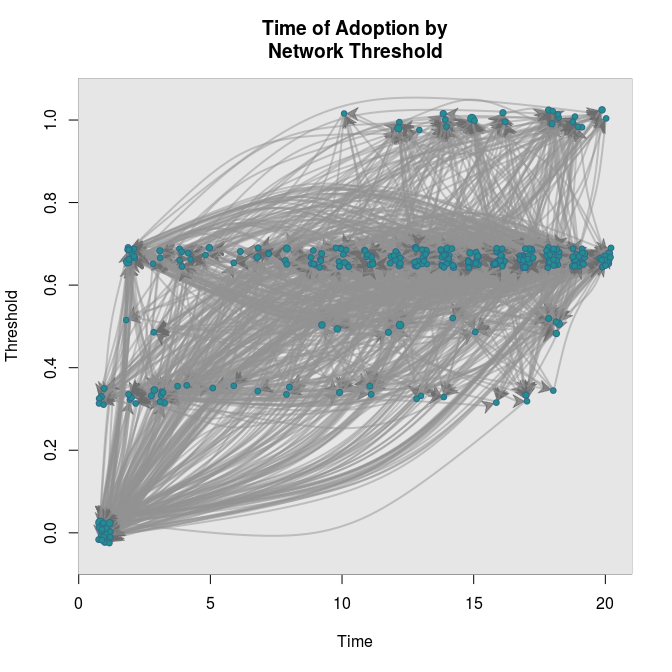
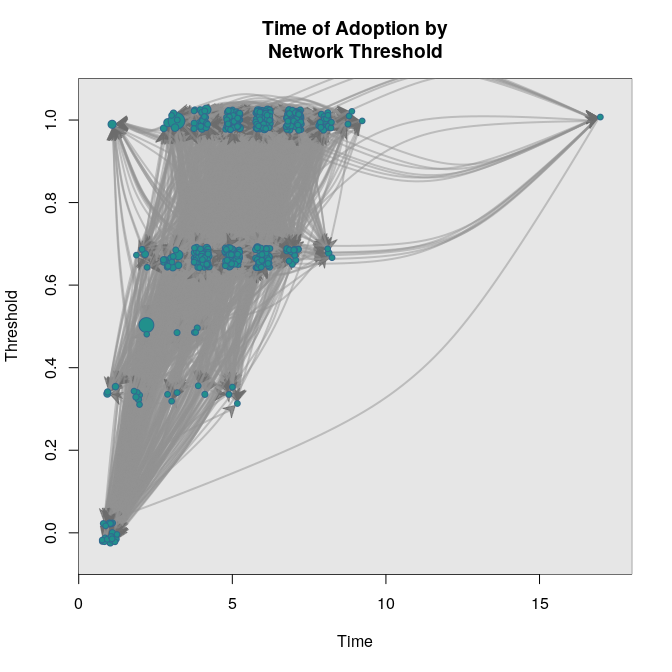
Updating README

diff --git a/README.md b/README.md
@@ -1,5 +1,3 @@
-netdiffuseR: Analysis of Diffusion and Contagion Processes on Networks
-================
 
 [![Build
 Status](https://travis-ci.org/USCCANA/netdiffuseR.svg?branch=master)](https://travis-ci.org/USCCANA/netdiffuseR)
@@ -11,6 +9,15 @@ status](https://ci.appveyor.com/api/projects/status/6u48wgl1lqak2jum?svg=true)](
 [![](http://cranlogs.r-pkg.org/badges/grand-total/netdiffuseR)](http://cran.rstudio.com/web/packages/netdiffuseR/index.html)
 [![DOI](https://zenodo.org/badge/DOI/10.5281/zenodo.1039317.svg)](https://doi.org/10.5281/zenodo.1039317)
 [![Dependencies](https://tinyverse.netlify.com/badge/netdiffuseR)](https://cran.r-project.org/package=netdiffuseR)
+[![USC’s Department of Preventive
+Medicine](https://raw.githubusercontent.com/USCbiostats/badges/master/tommy-uscprevmed-badge.svg)](https://preventivemedicine.usc.edu)
+
+<h1>
+
+netdiffuseR: Analysis of Diffusion and Contagion Processes on
+Networks<img src="man/figures/netdiffuser-logo.svg" style="max-width:200px;width:50%;" align="right">
+
+</h1>
 
 This package contains functions useful for analyzing network data for
 diffusion of innovations applications.
@@ -100,8 +107,7 @@ the package [here](https://github.com/USCCANA/netdiffuseR/releases),
 netdiffuseR\_1…zip, and netdiffuseR\_1…tgz respectively. They can
 install this directly as follows (using the 1.16.3.29 version):
 
-1.  Install dependencies from
-    CRAN
+1.  Install dependencies from CRAN
     
     ``` r
     > install.packages(c("igraph", "Matrix", "SparseM", "RcppArmadillo", "sna"), dependencies=TRUE)
@@ -165,7 +171,7 @@ toa <- sample(c(1:(1+nper-1), NA), n, TRUE)
 head(toa)
 ```
 
-    ## [1] 20  7  9  1 17 14
+    ## [1] 16  3 14  3 13  5
 
 ``` r
 # Creating a diffnet object
@@ -193,28 +199,28 @@ summary(diffnet)
     ## -----------------------------------------------------------------------------
     ##  Period   Adopters   Cum Adopt. (%)   Hazard Rate   Density   Moran's I (sd)  
     ## -------- ---------- ---------------- ------------- --------- ---------------- 
-    ##        1          3         3 (0.03)             -      0.50 -0.01 (0.00)     
-    ##        2          8        11 (0.11)          0.08      0.50 -0.01 (0.00)     
-    ##        3          4        15 (0.15)          0.04      0.51 -0.00 (0.00) *   
-    ##        4          1        16 (0.16)          0.01      0.49 -0.01 (0.00)     
-    ##        5          2        18 (0.18)          0.02      0.50 -0.01 (0.00)     
-    ##        6          5        23 (0.23)          0.06      0.50 -0.01 (0.00)     
-    ##        7          6        29 (0.29)          0.08      0.51 -0.01 (0.00)     
-    ##        8          1        30 (0.30)          0.01      0.50 -0.01 (0.00)     
-    ##        9          6        36 (0.36)          0.09      0.50 -0.01 (0.00)     
-    ##       10          5        41 (0.41)          0.08      0.49 -0.01 (0.00)     
-    ##       11          2        43 (0.43)          0.03      0.50 -0.02 (0.00) **  
-    ##       12          6        49 (0.49)          0.11      0.50 -0.01 (0.00)     
-    ##       13          4        53 (0.53)          0.08      0.50 -0.01 (0.00)     
-    ##       14          7        60 (0.60)          0.15      0.50 -0.01 (0.00)     
-    ##       15          7        67 (0.67)          0.17      0.50 -0.01 (0.00)     
-    ##       16          3        70 (0.70)          0.09      0.50 -0.01 (0.00)     
-    ##       17         10        80 (0.80)          0.33      0.49 -0.01 (0.00)     
-    ##       18          4        84 (0.84)          0.20      0.50 -0.01 (0.00)     
-    ##       19          2        86 (0.86)          0.12      0.50 -0.01 (0.00)     
-    ##       20          9        95 (0.95)          0.64      0.50 -0.01 (0.00)     
+    ##        1          8         8 (0.08)             -      0.50 -0.01 (0.00)     
+    ##        2          3        11 (0.11)          0.03      0.50 -0.01 (0.00)     
+    ##        3          6        17 (0.17)          0.07      0.51 -0.01 (0.00)     
+    ##        4          3        20 (0.20)          0.04      0.49 -0.01 (0.00)     
+    ##        5          9        29 (0.29)          0.11      0.50 -0.01 (0.00)     
+    ##        6          5        34 (0.34)          0.07      0.50 -0.01 (0.00)     
+    ##        7          2        36 (0.36)          0.03      0.51 -0.01 (0.00)     
+    ##        8          3        39 (0.39)          0.05      0.50 -0.01 (0.00)     
+    ##        9          5        44 (0.44)          0.08      0.50 -0.01 (0.00)     
+    ##       10          1        45 (0.45)          0.02      0.49 -0.01 (0.00)     
+    ##       11          3        48 (0.48)          0.05      0.50 -0.01 (0.00)     
+    ##       12          6        54 (0.54)          0.12      0.50 -0.01 (0.00)     
+    ##       13          8        62 (0.62)          0.17      0.50 -0.01 (0.00)     
+    ##       14          9        71 (0.71)          0.24      0.50 -0.01 (0.00)     
+    ##       15          5        76 (0.76)          0.17      0.50 -0.00 (0.00) **  
+    ##       16          7        83 (0.83)          0.29      0.50 -0.01 (0.00)     
+    ##       17          5        88 (0.88)          0.29      0.49 -0.00 (0.00) *** 
+    ##       18          4        92 (0.92)          0.33      0.50 -0.01 (0.00)     
+    ##       19          1        93 (0.93)          0.12      0.50 -0.01 (0.00)     
+    ##       20          2        95 (0.95)          0.29      0.50 -0.01 (0.00)     
     ## -----------------------------------------------------------------------------
-    ##  Left censoring  : 0.03 (3)
+    ##  Left censoring  : 0.08 (8)
     ##  Right centoring : 0.05 (5)
     ##  # of nodes      : 100
     ## 
@@ -233,8 +239,8 @@ out <- plot_infectsuscep(diffnet, bins = 20,K=5, logscale = TRUE,
                          exclude.zeros = TRUE, h=1)
 ```
 
-    ## Warning in plot_infectsuscep.list(graph$graph, graph$toa, t0, normalize, :
-    ## When applying logscale some observations are missing.
+    ## Warning in plot_infectsuscep.list(graph$graph, graph$toa, t0, normalize, : When
+    ## applying logscale some observations are missing.
 
 ![](README_files/figure-gfm/plot_infectsuscept-2.png)<!-- -->
 
@@ -256,7 +262,7 @@ diffnet
     ##  # of nodes         : 500 (1, 2, 3, 4, 5, 6, 7, 8, ...)
     ##  # of time periods  : 20 (1 - 20)
     ##  Type               : directed
-    ##  Final prevalence   : 0.60
+    ##  Final prevalence   : 1.00
     ##  Static attributes  : real_threshold (1)
     ##  Dynamic attributes : -
 
@@ -390,13 +396,13 @@ par(oldpar)
 sessionInfo()
 ```
 
-    ## R version 3.5.3 (2019-03-11)
+    ## R version 4.0.5 (2021-03-31)
     ## Platform: x86_64-pc-linux-gnu (64-bit)
-    ## Running under: Ubuntu 16.04.6 LTS
+    ## Running under: Ubuntu 18.04.5 LTS
     ## 
     ## Matrix products: default
-    ## BLAS: /usr/lib/libblas/libblas.so.3.6.0
-    ## LAPACK: /usr/lib/lapack/liblapack.so.3.6.0
+    ## BLAS:   /usr/lib/x86_64-linux-gnu/atlas/libblas.so.3.10.3
+    ## LAPACK: /usr/lib/x86_64-linux-gnu/atlas/liblapack.so.3.10.3
     ## 
     ## locale:
     ##  [1] LC_CTYPE=en_US.UTF-8       LC_NUMERIC=C              
@@ -410,19 +416,22 @@ sessionInfo()
     ## [1] stats     graphics  grDevices utils     datasets  methods   base     
     ## 
     ## other attached packages:
-    ## [1] netdiffuseR_1.20.0
+    ## [1] netdiffuseR_1.22.0
     ## 
     ## loaded via a namespace (and not attached):
-    ##  [1] igraph_1.2.2         Rcpp_1.0.0           knitr_1.21          
-    ##  [4] magrittr_1.5         network_1.13.0.1     networkDynamic_0.9.0
-    ##  [7] MASS_7.3-51.1        viridisLite_0.3.0    lattice_0.20-38     
-    ## [10] stringr_1.3.1        tools_3.5.3          MatchIt_3.0.2       
-    ## [13] grid_3.5.3           xfun_0.4             sna_2.4             
-    ## [16] coda_0.19-2          htmltools_0.3.6      yaml_2.2.0          
-    ## [19] digest_0.6.18        Matrix_1.2-16        evaluate_0.12       
-    ## [22] rmarkdown_1.11       statnet.common_4.1.4 stringi_1.2.4       
-    ## [25] compiler_3.5.3       boot_1.3-20          SparseM_1.77        
-    ## [28] pkgconfig_2.0.2
+    ##  [1] igraph_1.2.6          Rcpp_1.0.6            knitr_1.30           
+    ##  [4] magrittr_2.0.1        networkDynamic_0.10.1 network_1.16.1       
+    ##  [7] MASS_7.3-53.1         viridisLite_0.3.0     lattice_0.20-41      
+    ## [10] rlang_0.4.10          stringr_1.4.0         tools_4.0.5          
+    ## [13] MatchIt_4.1.0         grid_4.0.5            rle_0.9.2            
+    ## [16] xfun_0.20             sna_2.6               coda_0.19-4          
+    ## [19] htmltools_0.5.0       ellipsis_0.3.1        yaml_2.2.1           
+    ## [22] digest_0.6.27         tibble_3.0.4          lifecycle_0.2.0      
+    ## [25] crayon_1.3.4          Matrix_1.3-2          vctrs_0.3.6          
+    ## [28] evaluate_0.14         statnet.common_4.4.1  rmarkdown_2.6        
+    ## [31] stringi_1.5.3         compiler_4.0.5        pillar_1.4.7         
+    ## [34] backports_1.2.1       boot_1.3-27           SparseM_1.78         
+    ## [37] pkgconfig_2.0.3
 
 ## To-do list
 
